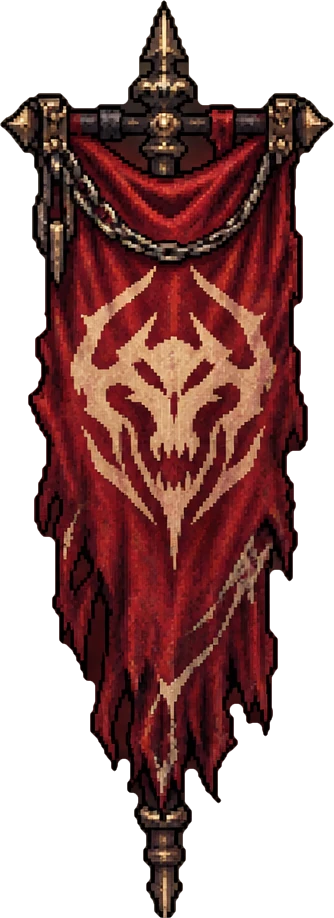
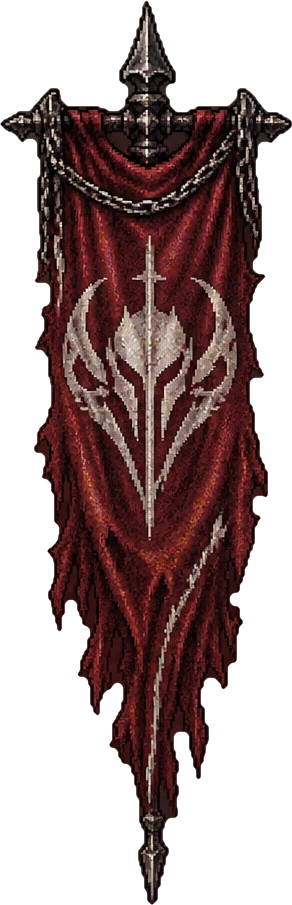
Subclasse: Berserker passa a ser o cavaleiro negro agachado; Cavaleiro fica sem arte
Tira a arte de pelos do Berserker e o estandarte que vinha com ela, tira a arte provisória da
Vanguarda e do Bastião (o Cavaleiro ainda não tem) e deixa só Berserker e Colosso com avatar
liberado pela subclasse. Os avisos de retrato e personagem só aparecem nas subclasses que têm avatar.

Claude-Session: https://claude.ai/code/session_016SswG1SZK2JExcHiYwawJu

diff --git a/src/assets/subclassesUi.ts b/src/assets/subclassesUi.ts
@@ -3,9 +3,6 @@ import imgBerserkerEstandarte from './images/subclasses/berserker-estandarte.web
 import imgBerserkerPersonagem from './images/subclasses/berserker-personagem.webp';
 import imgColossoEstandarte from './images/subclasses/colosso-estandarte.webp';
 import imgColossoPersonagem from './images/subclasses/colosso-personagem.webp';
-import imgVanguardaEstandarte from './images/subclasses/vanguarda-estandarte.webp';
-import imgBastiaoEstandarte from './images/subclasses/bastiao-estandarte.webp';
-import imgCavaleiroPersonagem from './images/subclasses/cavaleiro-personagem.webp';
 
 /** A arte de uma subclasse: o estandarte (o personagem fica ao lado dele). Largura / altura de cada imagem, para a proporção certa. */
 export interface ArteDaSubclasse {
@@ -16,14 +13,13 @@ export interface ArteDaSubclasse {
 }
 
 /**
- * As subclasses com arte (folhas do Yuri). A Vanguarda e o Bastião dividem, por enquanto, o cavaleiro negro agachado com a
- * espada nas costas. As outras subclasses ainda não têm arte e aparecem com o degradê da cor da classe.
+ * As subclasses com arte (folhas do Yuri): o Berserker é o cavaleiro de armadura negra agachado, com a espada nas costas,
+ * e o Colosso é o guerreiro de armadura dourada e elmo. As outras subclasses ainda não têm arte e aparecem com o degradê
+ * da cor da classe (o Cavaleiro ainda não tem).
  */
 export const ARTE_DAS_SUBCLASSES: Readonly<Record<string, ArteDaSubclasse>> = {
-  berserker: { estandarte: srcDaImagem(imgBerserkerEstandarte), personagem: srcDaImagem(imgBerserkerPersonagem), proporcaoDoEstandarte: 334 / 918, proporcaoDoPersonagem: 371 / 738 },
+  berserker: { estandarte: srcDaImagem(imgBerserkerEstandarte), personagem: srcDaImagem(imgBerserkerPersonagem), proporcaoDoEstandarte: 292 / 905, proporcaoDoPersonagem: 464 / 463 },
   colosso: { estandarte: srcDaImagem(imgColossoEstandarte), personagem: srcDaImagem(imgColossoPersonagem), proporcaoDoEstandarte: 334 / 918, proporcaoDoPersonagem: 427 / 779 },
-  vanguarda: { estandarte: srcDaImagem(imgVanguardaEstandarte), personagem: srcDaImagem(imgCavaleiroPersonagem), proporcaoDoEstandarte: 292 / 905, proporcaoDoPersonagem: 464 / 463 },
-  bastiao: { estandarte: srcDaImagem(imgBastiaoEstandarte), personagem: srcDaImagem(imgCavaleiroPersonagem), proporcaoDoEstandarte: 293 / 908, proporcaoDoPersonagem: 464 / 463 },
 };
 
 export function arteDaSubclasse(subclasseId: string): ArteDaSubclasse | null {

diff --git a/src/components/__tests__/SubclasseArte.test.tsx b/src/components/__tests__/SubclasseArte.test.tsx
@@ -12,7 +12,7 @@ const render = (c: CharacterDocument) => renderToStaticMarkup(<SubclassePanel ch
 
 describe('Subclasse em pixel: estandarte e personagem lado a lado', () => {
   it('as 4 subclasses com arte existem e têm o estandarte e o personagem', () => {
-    expect(Object.keys(ARTE_DAS_SUBCLASSES).sort()).toEqual(['bastiao', 'berserker', 'colosso', 'vanguarda']);
+    expect(Object.keys(ARTE_DAS_SUBCLASSES).sort()).toEqual(['berserker', 'colosso']);
     for (const id of Object.keys(ARTE_DAS_SUBCLASSES)) {
       expect(SUBCLASSES.some((s) => s.id === id)).toBe(true);
       const a = arteDaSubclasse(id)!;
@@ -20,6 +20,8 @@ describe('Subclasse em pixel: estandarte e personagem lado a lado', () => {
       expect(a.personagem).toBeTruthy();
     }
     expect(arteDaSubclasse('kensei')).toBeNull();
+    expect(arteDaSubclasse('vanguarda')).toBeNull();
+    expect(arteDaSubclasse('bastiao')).toBeNull();
   });
 
   it('a escolha do Bárbaro mostra o estandarte e o personagem de cada subclasse, com o botão Desbloquear', () => {
@@ -32,17 +34,18 @@ describe('Subclasse em pixel: estandarte e personagem lado a lado', () => {
     expect(html.match(/Desbloquear/g)?.length).toBeGreaterThanOrEqual(2);
   });
 
-  it('o Cavaleiro mostra a Vanguarda e o Bastião com o cavaleiro negro', () => {
+  it('o Cavaleiro ainda não tem arte: a Vanguarda e o Bastião aparecem com o degradê, sem imagem', () => {
     const html = render(personagem('cavaleiro'));
-    expect(html).toContain(arteDaSubclasse('vanguarda')!.estandarte);
-    expect(html).toContain(arteDaSubclasse('bastiao')!.estandarte);
-    expect(html).toContain(arteDaSubclasse('vanguarda')!.personagem);
+    expect(html).toContain('data-subclasse="vanguarda"');
+    expect(html).toContain('data-subclasse="bastiao"');
+    expect(html).not.toContain(arteDaSubclasse('berserker')!.estandarte);
+    expect(html).not.toContain(arteDaSubclasse('colosso')!.estandarte);
   });
 
   it('subclasse sem arte ainda aparece (degradê da cor da classe), sem imagens quebradas', () => {
     const html = render(personagem('samurai'));
     expect(html).toContain('data-subclasse="kensei"');
-    expect(html).not.toContain('berserker-estandarte');
+    expect(html).not.toContain(arteDaSubclasse('berserker')!.estandarte);
   });
 
   it('com a subclasse ativa mostra o cabeçalho com a arte, a linha de tiers e o botão de resetar', () => {

diff --git a/src/components/desenvolvimento/SubclassePanel.tsx b/src/components/desenvolvimento/SubclassePanel.tsx
@@ -11,6 +11,7 @@ import { COR_DA_CLASSE, iconeDaHabilidadeSubclasse } from '@/rules/subclasseAsse
 import { TIER_POR_ESPACO_HABILIDADE } from '@/rules/subclasseTiers';
 import { GAME_CONFIG } from '@/rules/config';
 import { SUBCLASSES, type Subclasse } from '@/rules/subclasses';
+import { AVATARES_DE_SUBCLASSE } from '@/rules/avatars';
 import { textoDaFicha, TEXTOS_DA_FICHA } from '@/rules/textosDaFicha';
 import {
   acaoDeEscolha,
@@ -42,6 +43,9 @@ const SIGLAS: Record<string, string> = {
 };
 const fmt = (n: number) => n.toLocaleString('pt-BR');
 const pixel: React.CSSProperties = { imageRendering: 'pixelated' };
+
+/** Só algumas subclasses já têm retrato e personagem para o perfil. */
+const temAvatar = (subclasseId: string) => AVATARES_DE_SUBCLASSE.some((a) => a.subclasseId === subclasseId);
 
 type Confirmacao = { titulo: string; aviso: string; acao: AcaoSubclasse; executar: () => Promise<void> };
 
@@ -222,10 +226,10 @@ export function SubclassePanel({ character, idToken, onCharacterChange, classNam
             aoClicar={() =>
               setConfirmacao({
                 titulo: textoDaFicha(t.desbloquearTitulo, { nome: sub.nome }),
-                aviso: t.desbloquearAviso,
+                aviso: t.desbloquearAviso + (temAvatar(sub.id) ? t.desbloquearAvisoAvatar : ''),
                 acao,
                 executar: async () => {
-                  await chamar('/api/character/subclasse/escolher', { subclasseId: sub.id }, textoDaFicha(t.desbloqueada, { nome: sub.nome }));
+                  await chamar('/api/character/subclasse/escolher', { subclasseId: sub.id }, textoDaFicha(temAvatar(sub.id) ? t.desbloqueadaComAvatar : t.desbloqueada, { nome: sub.nome }));
                 },
               })
             }
@@ -344,7 +348,7 @@ export function SubclassePanel({ character, idToken, onCharacterChange, classNam
               aoClicar={() =>
                 setConfirmacao({
                   titulo: t.resetTitulo,
-                  aviso: t.resetAviso,
+                  aviso: t.resetAviso + (temAvatar(subId) ? t.resetAvisoAvatar : ''),
                   acao: reset,
                   executar: async () => {
                     const ok = await chamar('/api/character/subclasse/resetar', undefined, t.resetFeito);

diff --git a/src/assets/avatars.ts b/src/assets/avatars.ts
@@ -13,7 +13,6 @@ import avatarProfetaImg from './images/avatares/avatar-profeta.webp';
 import avatarSamuraiImg from './images/avatares/avatar-samurai.webp';
 import avatarBerserkerImg from './images/subclasses/berserker-personagem.webp';
 import avatarColossoImg from './images/subclasses/colosso-personagem.webp';
-import avatarCavaleiroNegroImg from './images/subclasses/cavaleiro-personagem.webp';
 import { srcDaImagem } from '@/assets/srcDaImagem';
 
 export const AVATAR_IMAGES: Record<AvatarAssetKey, string> = {
@@ -25,9 +24,6 @@ export const AVATAR_IMAGES: Record<AvatarAssetKey, string> = {
   'avatar-samurai': srcDaImagem(avatarSamuraiImg),
   'avatar-berserker': srcDaImagem(avatarBerserkerImg),
   'avatar-colosso': srcDaImagem(avatarColossoImg),
-  // a Vanguarda e o Bastião dividem, por enquanto, o cavaleiro negro agachado com a espada nas costas
-  'avatar-vanguarda': srcDaImagem(avatarCavaleiroNegroImg),
-  'avatar-bastiao': srcDaImagem(avatarCavaleiroNegroImg),
 };
 
 /**
@@ -45,10 +41,8 @@ export const AVATAR_FACE_FRAMING: Record<
   profeta: { objectPosition: '50% 0%', transformOrigin: '50% 1%', scale: 1.9 },
   samurai: { objectPosition: '50% 0%', transformOrigin: '50% 1%', scale: 1.9 },
   // as artes das subclasses têm outra proporção: o enquadramento mira o rosto de cada uma
-  berserker: { objectPosition: '50% 0%', transformOrigin: '50% 7%', scale: 1.9 },
+  berserker: { objectPosition: '50% 0%', transformOrigin: '34% 27%', scale: 2.3 },
   colosso: { objectPosition: '50% 0%', transformOrigin: '50% 6%', scale: 1.9 },
-  vanguarda: { objectPosition: '50% 0%', transformOrigin: '34% 27%', scale: 2.3 },
-  bastiao: { objectPosition: '50% 0%', transformOrigin: '34% 27%', scale: 2.3 },
 };
 
 export function resolveAvatarDefinition(

diff --git a/src/rules/textosDaFicha.ts b/src/rules/textosDaFicha.ts
@@ -50,13 +50,16 @@ export const TEXTOS_DA_FICHA = {
     tipoUltimate: 'Ultimate',
     libera: 'Libera no tier {n}. {descricao}',
     desbloquearTitulo: 'Desbloquear {nome}?',
-    desbloquearAviso: 'Cada personagem tem uma subclasse só: trocar depois exige resetar (100 diamantes) e perder os tiers. Os recursos abaixo serão gastos agora. Você também libera o retrato e o personagem da subclasse para o perfil (e fica com eles).',
-    desbloqueada: '{nome} desbloqueada! Retrato e personagem liberados no perfil.',
+    desbloquearAviso: 'Cada personagem tem uma subclasse só: trocar depois exige resetar (100 diamantes) e perder os tiers. Os recursos abaixo serão gastos agora.',
+    desbloquearAvisoAvatar: ' Você também libera o retrato e o personagem dela para o perfil (e fica com eles).',
+    desbloqueada: '{nome} desbloqueada!',
+    desbloqueadaComAvatar: '{nome} desbloqueada! Retrato e personagem liberados no perfil.',
     tierTitulo: 'Subir para o tier {n}?',
     tierAviso: 'Os recursos abaixo serão gastos agora e não voltam.',
     tierComprado: '{nome}: tier {n} comprado!',
     resetTitulo: 'Resetar a subclasse?',
-    resetAviso: 'Você perde a subclasse, o bônus de atributos e todos os tiers. Para ter uma subclasse de novo, paga tudo outra vez (tier 0 em diante). O custo em diamantes não volta. O retrato e o personagem já liberados continuam seus.',
+    resetAviso: 'Você perde a subclasse, o bônus de atributos e todos os tiers. Para ter uma subclasse de novo, paga tudo outra vez (tier 0 em diante). O custo em diamantes não volta.',
+    resetAvisoAvatar: ' O retrato e o personagem já liberados continuam seus.',
     resetFeito: 'Subclasse resetada.',
     resetar: 'Resetar subclasse',
     tierAtual: 'Tier {n}',

diff --git a/src/rules/avatars.ts b/src/rules/avatars.ts
@@ -7,9 +7,7 @@ export type AvatarId =
   | 'samurai'
   // avatares das subclasses (liberados ao desbloquear a subclasse)
   | 'berserker'
-  | 'colosso'
-  | 'vanguarda'
-  | 'bastiao';
+  | 'colosso';
 
 export type AvatarAssetKey =
   | 'avatar-barbaro'
@@ -19,9 +17,7 @@ export type AvatarAssetKey =
   | 'avatar-profeta'
   | 'avatar-samurai'
   | 'avatar-berserker'
-  | 'avatar-colosso'
-  | 'avatar-vanguarda'
-  | 'avatar-bastiao';
+  | 'avatar-colosso';
 
 export interface AvatarDefinition {
   id: AvatarId;
@@ -61,8 +57,6 @@ export const AVATARES_DISPONIVEIS: readonly AvatarDefinition[] = [
 export const AVATARES_DE_SUBCLASSE: readonly AvatarDefinition[] = [
   { id: 'berserker', assetKey: 'avatar-berserker', subclasseId: 'berserker' },
   { id: 'colosso', assetKey: 'avatar-colosso', subclasseId: 'colosso' },
-  { id: 'vanguarda', assetKey: 'avatar-vanguarda', subclasseId: 'vanguarda' },
-  { id: 'bastiao', assetKey: 'avatar-bastiao', subclasseId: 'bastiao' },
 ] as const;
 
 export const DEFAULT_AVATAR_ID: AvatarId = AVATARES_DISPONIVEIS[0].id;

diff --git a/src/server/__tests__/avatarDeSubclasse.test.ts b/src/server/__tests__/avatarDeSubclasse.test.ts
@@ -19,7 +19,7 @@ describe('Avatares das subclasses: o retrato e o personagem abrem ao desbloquear
   }
 
   it('cada avatar de subclasse aponta para uma subclasse que existe e tem imagem e enquadramento do rosto', () => {
-    expect(AVATARES_DE_SUBCLASSE.map((a) => a.id)).toEqual(['berserker', 'colosso', 'vanguarda', 'bastiao']);
+    expect(AVATARES_DE_SUBCLASSE.map((a) => a.id)).toEqual(['berserker', 'colosso']);
     for (const a of AVATARES_DE_SUBCLASSE) {
       expect(SUBCLASSES.some((s) => s.id === a.subclasseId)).toBe(true);
       expect(AVATAR_IMAGES[a.assetKey]).toBeTruthy();
